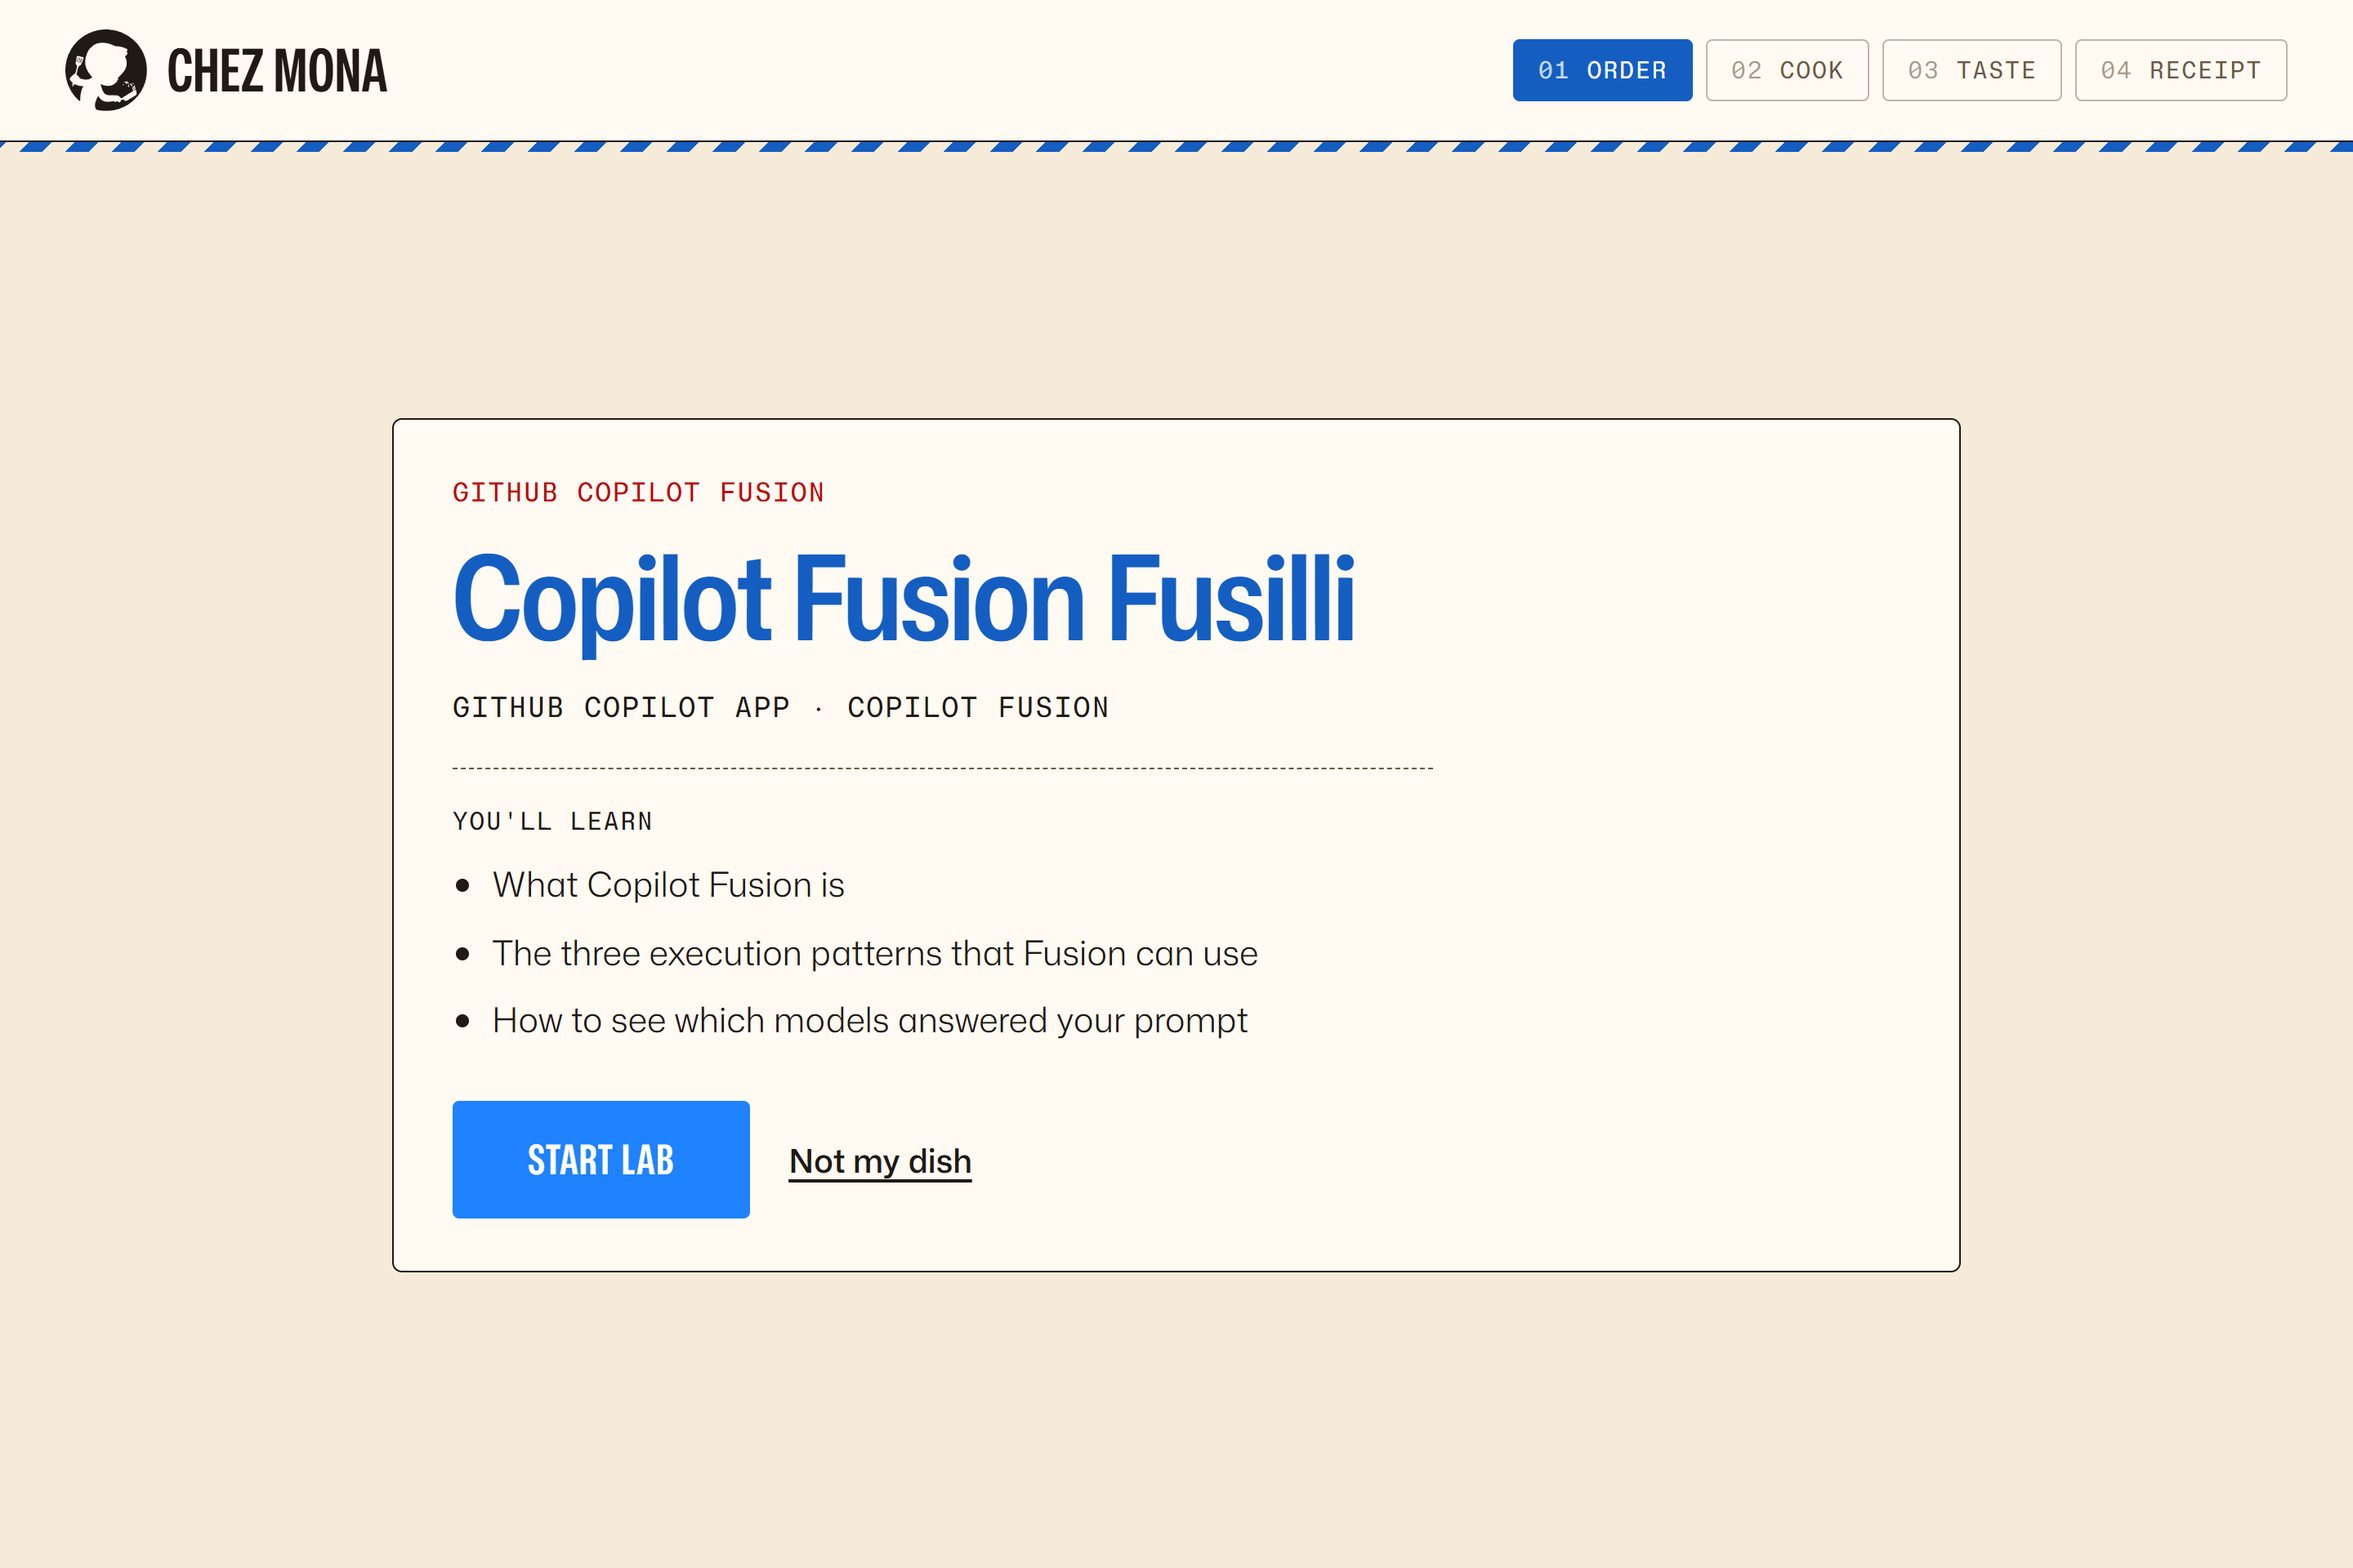
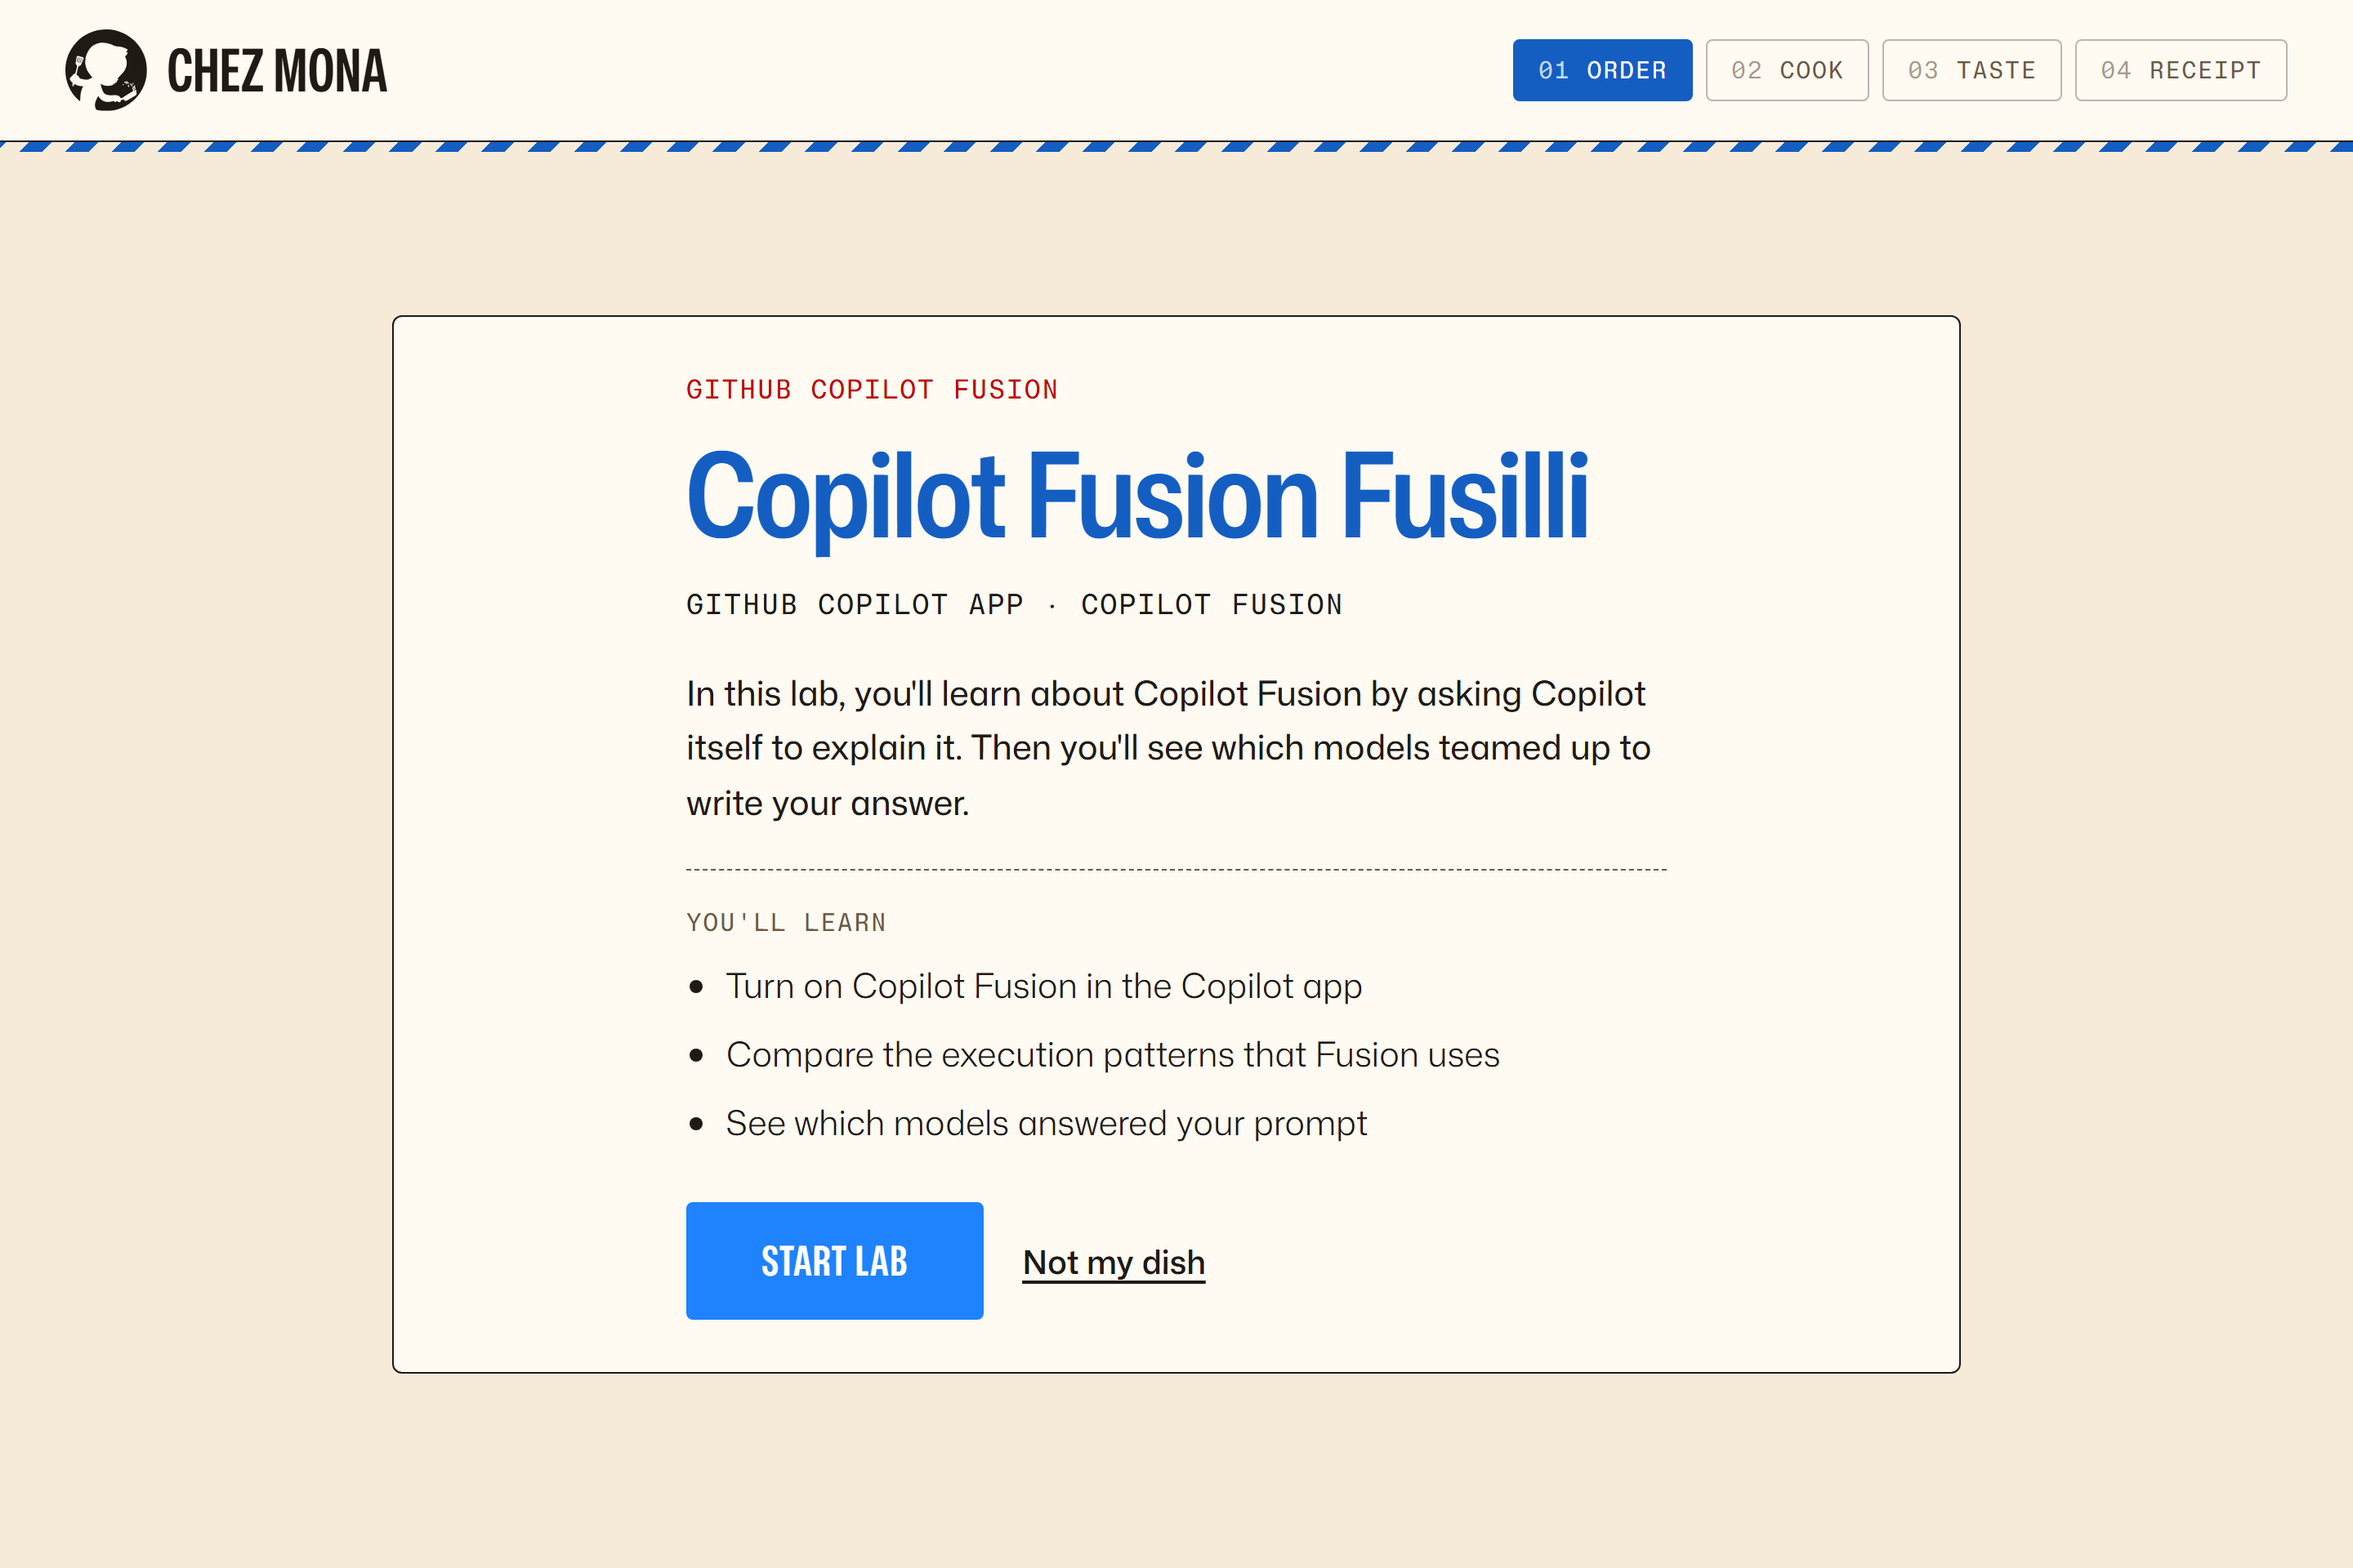
Update guest flow documentation

diff --git a/launcher/docs/how-it-works.md b/launcher/docs/how-it-works.md
@@ -1,6 +1,6 @@
 # How it works
 
-The launcher is a local web app that runs the booth flow on each laptop. A guest scans a fridge ticket or chooses a lab on screen, reads the intro, explores the lab, takes a two question quiz, wraps up and prints a receipt. The same app also runs the fridge wall kiosks that print the tickets.
+The launcher is a local web app that runs the booth flow on each laptop. A guest scans a fridge ticket or chooses a lab on screen, reads the intro, explores the lab, answers a three question quiz, wraps up and prints a receipt. The same app also runs the fridge wall kiosks that print the tickets.
 
 A small Python server listens on `localhost` only. It serves the page and does the local work the browser cannot: copy the Fried Chicken starter, open and close VS Code, send tickets and receipts to the printer, and [count labs](run-booth.md#get-lab-counts).
 
